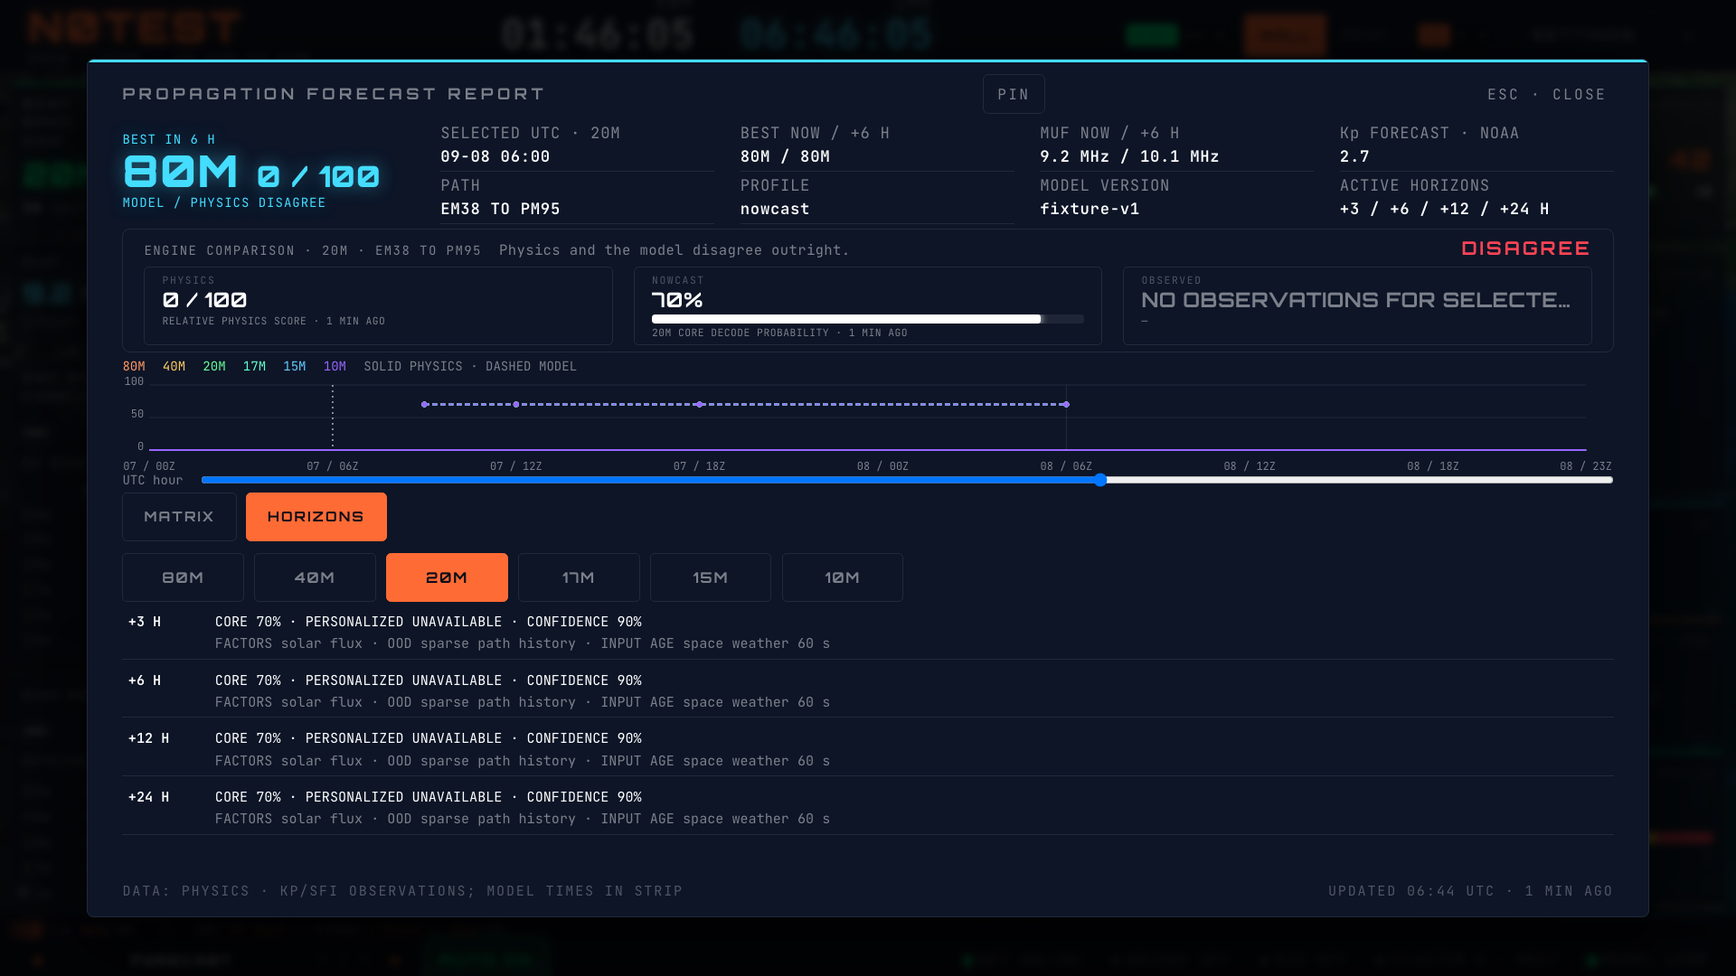
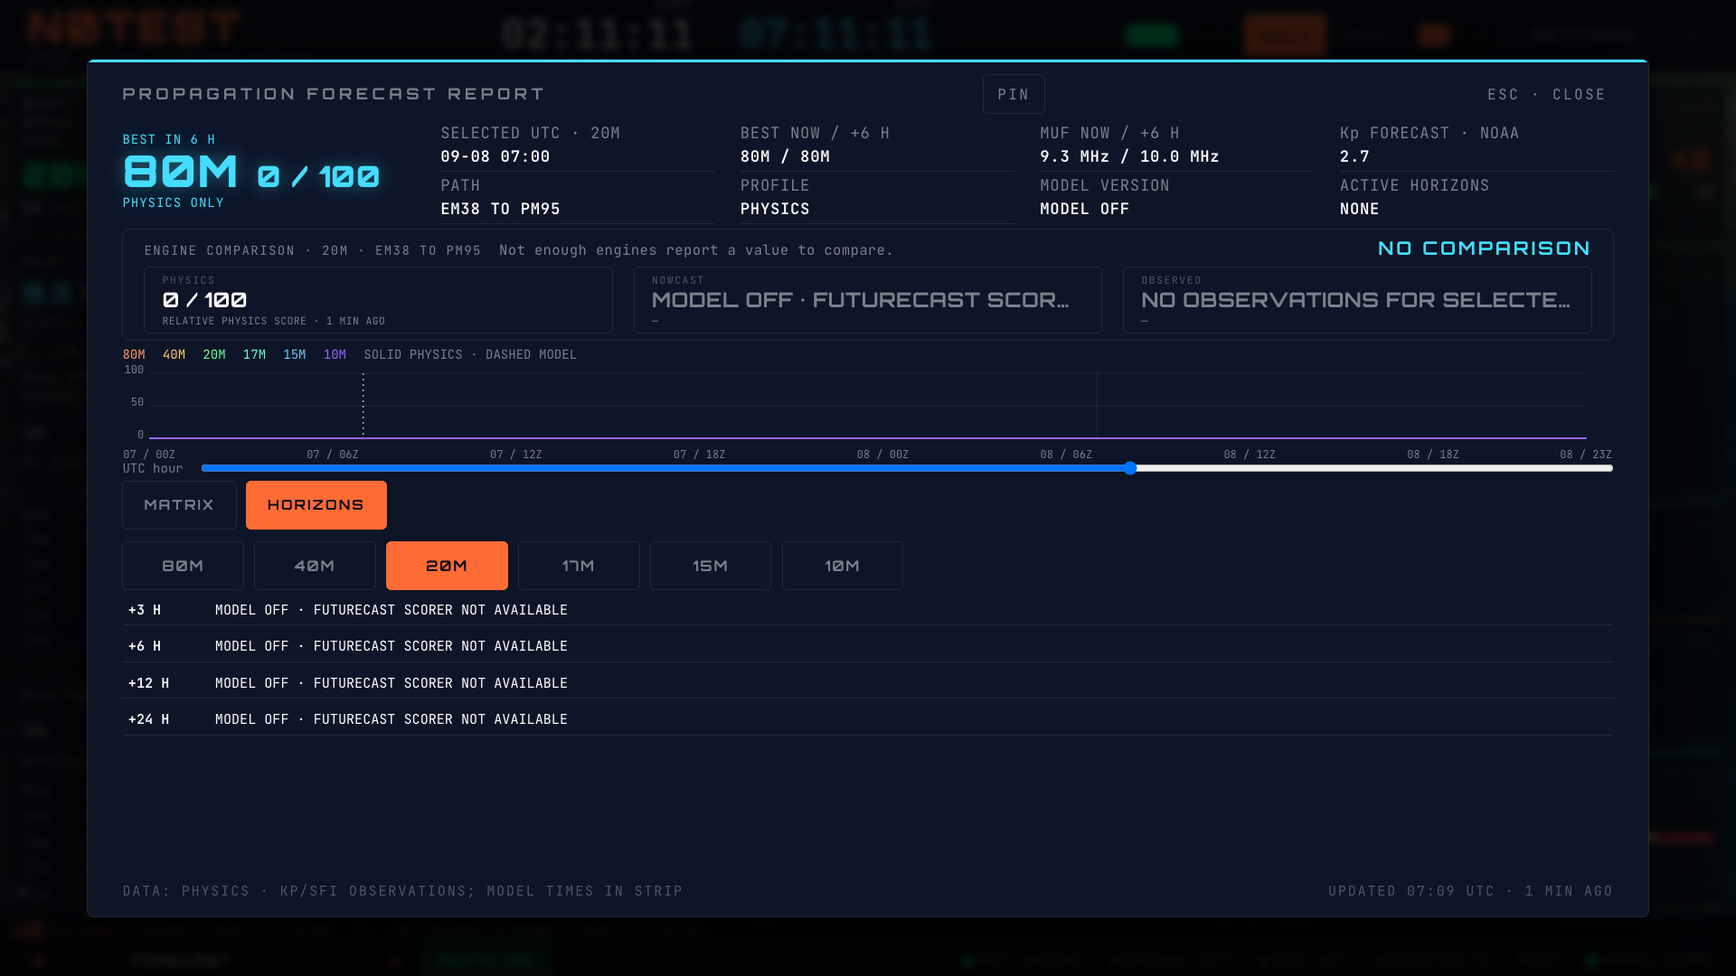
fix(hamclock): require a real FutureCast serving contract

diff --git a/src/components/map/hamclock/wall/reports/useFutureCastReport.ts b/src/components/map/hamclock/wall/reports/useFutureCastReport.ts
@@ -1,13 +1,13 @@
-import { useQueries, useQuery } from "@tanstack/react-query";
-import { nowCastIssueBucket, type NowCastBandInput } from "@/hooks/useNowCastBandPredictions";
+import { useQuery } from "@tanstack/react-query";
+import { nowCastIssueBucket } from "@/hooks/useNowCastBandPredictions";
 import { resolveFutureCastHorizons, resolveNowCastCapabilityAccess } from "@/lib/propagation/capabilityAccess";
 import { propagationModelClient, propagationModelEnabled, propagationModelMode } from "@/lib/propagation/modelClient";
-import { buildFutureCastReportRequests } from "./futureCastRequests";
-import { modelEvidence, FORECAST_HOUR_MS } from "./forecastEvidence";
+import type { ModelEvidence } from "./forecastEvidence";
+
 
 /** The report consumes the established service gates; it cannot activate a
  * horizon or convert a fallback/current response into a future prediction. */
-export function useFutureCastReport(input: NowCastBandInput) {
+export function useFutureCastReport() {
   const now = Date.now();
   const issueTime = nowCastIssueBucket(now);
   const capabilities = useQuery({
@@ -23,35 +23,18 @@ export function useFutureCastReport(input: NowCastBandInput) {
     retry: 1,
   });
   const access = resolveNowCastCapabilityAccess(capabilities.data, propagationModelMode);
-  const active = propagationModelEnabled && !capabilities.isError && access.coreNowCast ? resolveFutureCastHorizons(capabilities.data, propagationModelMode) : [];
+  const advertised = propagationModelEnabled && !capabilities.isError && access.coreNowCast ? resolveFutureCastHorizons(capabilities.data, propagationModelMode) : [];
   const offReason = !propagationModelEnabled ? "MODEL DISABLED"
     : capabilities.isError ? "CAPABILITY SERVICE UNREACHABLE"
     : capabilities.isPending ? "CHECKING MODEL CAPABILITIES"
     : !access.coreNowCast ? "CORE MODEL CAPABILITY UNAVAILABLE"
+    : advertised.length ? "FUTURECAST SCORER NOT AVAILABLE"
     : "HORIZON NOT ACTIVATED BY MODEL CAPABILITIES";
-  const requests = buildFutureCastReportRequests(input, new Date(issueTime), access.coreNowCast ? active : [], access.stationCast);
-  const queries = useQueries({ queries: requests.map(({ hours, request }) => ({
-    queryKey: ["hamclock-futurecast", hours, request] as const,
-    queryFn: ({ signal }: { signal: AbortSignal }) => {
-      if (!propagationModelClient) throw new Error("Propagation model is disabled");
-      return propagationModelClient.path(request, signal);
-    },
-    enabled: propagationModelEnabled && active.includes(hours as 3 | 6 | 12 | 24),
-    staleTime: 60_000,
-    retry: 1,
-  })) });
-  const evidence = new Map(requests.map(({ hours, request }, index) => {
-    const query = queries[index];
-    const result = modelEvidence(query.data, {
-      band: request.band, targetGrid: input.target?.grid ?? null, mode: request.mode,
-      hourIndex: Math.floor((issueTime + hours * FORECAST_HOUR_MS) / FORECAST_HOUR_MS), now,
-    });
-    return [`${request.band}:${hours}`, {
-      ...result,
-      reason: query.isError ? "MODEL REQUEST FAILED" : result.reason,
-      personalized: !!request.station,
-      stale: query.isError || !!result.prediction?.ood_flags.some(flag => /stale/i.test(flag)),
-    }] as const;
-  }));
-  return { active, offReason, issueTime, evidence, pending: queries.some(query => query.isPending) };
+  // The deployed path API selects only NowCast/physics scorers, even for a
+  // future valid_time (ml/service/app.py: ModelRegistry.predict_many/path).
+  // Capability flags alone do not establish a horizon-aware serving contract.
+  // Do not send future timestamps to that endpoint or read its cached scores.
+  const active: Array<3 | 6 | 12 | 24> = [];
+  const evidence = new Map<string, ModelEvidence & { personalized: boolean; stale: boolean }>();
+  return { active, offReason, issueTime, evidence, pending: capabilities.isPending };
 }

diff --git a/src/components/map/hamclock/wall/reports/useFutureCastReport.test.tsx b/src/components/map/hamclock/wall/reports/useFutureCastReport.test.tsx
@@ -10,11 +10,10 @@ vi.mock("@/lib/propagation/modelClient", async original => ({
   ...await original<typeof import("@/lib/propagation/modelClient")>(),
   propagationModelEnabled: true, propagationModelMode: "released", propagationModelClient: mocks,
 }));
-const input = { origin: { grid: "EM38", lat: 38.5, lon: -93 }, target: { grid: "PM95", lat: 35.68, lon: 139.65 }, mode: "FT8", deriveEnvelope: () => null };
 function setup() {
   const client = new QueryClient({ defaultOptions: { queries: { retry: false, gcTime: 0 } } });
   const wrapper = ({ children }: { children: ReactNode }) => createElement(QueryClientProvider, { client }, children);
-  return { client, ...renderHook(() => useFutureCastReport(input), { wrapper }) };
+  return { client, ...renderHook(() => useFutureCastReport(), { wrapper }) };
 }
 const allowed = () => ({ ...fixture, service_execution_enabled: true, model_loaded: true, runtime_activation_valid: true,
   modes: { ...fixture.modes, core_nowcast: { internal_available: true, released_eligible: true }, futurecast: { internal_available: true, released_eligible: true, released_horizons_hours: [3, 6] } } });
@@ -26,12 +25,13 @@ beforeEach(() => {
     core_probability: 0.7, personalized_probability: 0.8, confidence: 0.9, ood_flags: [], top_factors: ["solar_flux"], assumptions: [], data_freshness: {},
   }));
 });
-it("requests only released horizons and removes cached evidence when capability is revoked", async () => {
+it("does not score future horizons through the NowCast-only path endpoint, even when advertised", async () => {
   mocks.capabilities.mockResolvedValue(allowed());
   const hook = setup();
-  await waitFor(() => expect(hook.result.current.evidence.get("20m:3")?.prediction).toBeTruthy());
-  expect(mocks.path).toHaveBeenCalledTimes(12);
-  expect(hook.result.current.active).toEqual([3, 6]);
+  await waitFor(() => expect(hook.result.current.offReason).toBe("FUTURECAST SCORER NOT AVAILABLE"));
+  expect(mocks.path).not.toHaveBeenCalled();
+  expect(hook.result.current.active).toEqual([]);
+  expect(hook.result.current.evidence.size).toBe(0);
   act(() => hook.client.setQueryData(["propagation-v4", "capabilities"], { ...allowed(), runtime_activation_valid: false }));
   await waitFor(() => expect(hook.result.current.active).toEqual([]));
   expect(hook.result.current.evidence.size).toBe(0);

diff --git a/src/components/map/hamclock/wall/reports/PropagationForecastReport.tsx b/src/components/map/hamclock/wall/reports/PropagationForecastReport.tsx
@@ -28,7 +28,7 @@ export function PropagationForecastReport({ open, onClose }: { open: boolean; on
     weather: { ...(data.wall.inputs.kp === null ? {} : { kp: data.wall.inputs.kp }), ...(data.wall.inputs.sfi === null ? {} : { f107: data.wall.inputs.sfi }) },
     weatherUpdatedAt: data.wall.updatedAt ?? undefined, deriveEnvelope: station.deriveEnvelope,
   }), [data.location, data.target, data.wall.mode, data.wall.inputs.kp, data.wall.inputs.sfi, data.wall.updatedAt, station.location, station.deriveEnvelope]);
-  const future = useFutureCastReport(input);
+  const future = useFutureCastReport();
   const hour = Math.max(data.dayStart, Math.min(data.dayStart + 47, selected ?? data.wall.hourIndex));
   const score = data.matrix.get(`${band}:${hour}`);
   const ranked = (at: number) => WALL_FORECAST_BANDS.map(value => ({ band: value, score: data.matrix.get(`${value}:${at}`) })).filter(value => value.score !== undefined).sort((a, b) => b.score! - a.score!)[0];

diff --git a/docs/designs/hamclock-propagation-forecast-report.md b/docs/designs/hamclock-propagation-forecast-report.md
@@ -1,23 +1,27 @@
 # HamClock Propagation Forecast report — B18 / HW-59
 
-The Forecast Matrix tile opens a dedicated, pinnable report. Its summary shows the highest physics-scoring band six hours ahead, its relative score, and model/physics agreement only when matching model evidence exists. The chart covers the current and next UTC calendar day, with six physics band scores, a now marker and model points only at permitted FutureCast horizons. This is two UTC days, not a promise of 48 future hours from the current moment.
+The Forecast Matrix tile opens a dedicated, pinnable report. Its summary shows the highest physics-scoring band six hours ahead and its relative score. The chart covers the current and next UTC calendar day with six physics band scores and a now marker. This is two UTC days, not a promise of 48 future hours from the current moment.
 
-MATRIX provides a day selector and 24 hourly columns per day. Both days retain all six bands (288 values in the screen-reader table); the visible cells remain at least 44 × 44 pixels. Selecting a cell or moving the chart's keyboard/pointer control updates the band/hour readout. The dialog fits within 90vw × 88vh without a scrolling region.
+MATRIX provides a day selector and 24 hourly columns per day. Both days retain all six bands (288 values in the screen-reader table); visible cells remain at least 44 × 44 pixels. Cell selection and the chart's keyboard/pointer control update the selected-hour readout. The dialog fits within 90vw × 88vh without a scrolling region.
 
-HORIZONS always includes +3, +6, +12 and +24 hours. Available responses show core probability, personalized probability only when a station envelope was actually sent, confidence, word-expanded factors and OOD flags, and supplied input ages. Missing or disabled horizons retain MODEL OFF and a reason. The chart and selected-hour model readout use the same core/personalized choice. Scoped spot counts remain evidence and are excluded from path-agreement classification.
+HORIZONS always includes +3, +6, +12 and +24 hours, with MODEL OFF and the applicable reason. The presentation supports probabilities/confidence/metadata when a real horizon scorer becomes available, but the current service cannot provide those values. Scoped spot counts remain evidence and are excluded from path-agreement classification.
 
-## Data boundaries and remaining work
+## Serving dependency — HW-59 remains partial
 
-- Existing model capability and runtime gates decide which horizons may be requested. This report cannot activate them. Capability revocation also hides cached responses.
-- Requests use the established station envelope and feature builder, recalculated at each valid time while retaining the issue time and observation freshness. Reliability mathematics and modeling internals are unchanged.
-- Model responses must match band, target, mode and valid hour, pass probability/metadata validation, and have a recent issue time. A stale response or refresh failure retains a warning. A current response is never extended across future hours.
-- Physics uses the existing two-day computation and current Kp/SFI observations. The separate Kp FORECAST fact reuses the full NOAA K-index resource, accepts only predicted points covering the selected three-hour interval, and marks stale values. It does not substitute observations for missing forecasts or alter the physics inputs.
-- Historical model/observed series and hop count remain the separate HW-58 gaps documented in the Reliability report. No synthetic values replace missing source data.
+Review identified that `ml/service/app.py` selects only `nowcast` or `physics` in `ModelRegistry.predict_many`; the path endpoint calls that scorer without a horizon-specific model. A future `valid_time` does not make the resulting score FutureCast. The service also advertises `futurecast.internal_available` as false.
 
-## Validation so far
+The report therefore sends no future-time path requests, reads no cached future-time NowCast results, and reports FUTURECAST SCORER NOT AVAILABLE even if activation metadata advertises horizons. A horizon-aware endpoint/scorer and a response contract identifying its model/horizon are required before this adapter can supply future evidence. That serving work belongs to the model owner; no modeling or activation code changed here. The removed request builder must not be restored against the generic path API.
 
-Eight focused tests cover future-time feature construction, capability revocation, disabled horizons, both matrix days, and core/personalized chart/readout consistency including stale metadata, plus NOAA bucket boundaries and observation/forecast separation. The required wall suite passed all 328 tests in 32 files. TypeScript compilation passes. The browser matrix passed 24 MODEL OFF cases and 24 populated-model cases across QTH/target, three themes, 1080p/4K and both tabs. It checks all 288 cell labels across both days, 44px minimum hit targets, 90vw × 88vh limits, no overflow, selection and focus return. No page errors occurred. Browser data was synthetic in an isolated local context; this is not evidence that live FutureCast horizons are released.
+Current-hour NowCast remains available through the existing validated Reliability adapter. The best-in-six-hours summary stays PHYSICS ONLY while future evidence is unavailable. Historical model/observed series and hop count remain the separate HW-58 gaps.
 
-PR #502 is stacked on Reliability PR #494. Full pre-push verification passed: 3,219 app tests in 368 files, Python/archive checks, bridge/daemon checks, lint, production build and all bundle budgets.
+## Kp and physics
+
+Physics uses the existing two-day computation and current Kp/SFI observations. The separate Kp FORECAST fact reuses the full NOAA K-index resource, accepts only predicted points covering the selected three-hour interval, and marks stale values. It does not substitute observations for missing forecasts or alter physics inputs.
+
+## Validation
+
+The new scorer-boundary regression failed against the original implementation and passes after removal of future-time path requests. Six focused tests cover that boundary, capability revocation, core/personalized presentation consistency, stale metadata, matrix day selection, and Kp bucket boundaries. Earlier full verification passed 3,219 app tests; final review-fix verification is recorded in PR #502.
+
+The review browser matrix passed 24 cases with advertised horizons but no supported scorer: all horizon rows show the reason, zero future-time path requests are sent, and no model points appear on the future chart. It also checks QTH/target, three themes, 1080p/4K, both tabs, all 288 cell labels, 44px minimum hit targets, report size, overflow, selection and focus return. No page errors occurred. Fixtures were isolated and synthetic. Earlier populated-row fixtures proved presentation only and did not establish an available FutureCast service.
 
 ![Forecast horizons at 1080p](../images/hamclock-b18/forecast-horizons-1080p.png)

diff --git a/docs/designs/hamclock-wall-spec.md b/docs/designs/hamclock-wall-spec.md
@@ -485,7 +485,7 @@ Rows HW-40 to HW-49 in the feature register. All are Not started.
 | HW-56 | `EngineComparisonStrip`: physics / nowcast / observed on every model-backed report          | Delivered   | PR #246                               | section 26.1; `EngineComparisonStrip.tsx`, pure `compareEngines()` in `src/lib/hamclock/engineComparison.ts`; on the MUF and Best band reports                                                                                                                                                                           |
 | HW-57 | MUF report: ionosphere facts, hop table, usable-window chart                                | Delivered   | PR #246                               | section 26.2; `MufReport.tsx`, `useMUFHourlySeries`; PATH / HOPS tabs, shaded FOT–LUF usable window, hop rows flash the map                                                                                                                                                                                              |
 | HW-58 | Reliability report: SNR, confidence, station inputs, three-engine chart                     | Partial |                                       | section 26.3; dedicated report implemented in B18 Reliability slice; source history and hop count gaps documented in [evidence](hamclock-reliability-report.md)                                                                                                                                                                                                                                                                                                             |
-| HW-59 | Propagation forecast report: 48 h band chart, matrix tab, FutureCast horizons tab           | Delivered |                                       | PR #502, effective on merge; [evidence](hamclock-propagation-forecast-report.md)                                                                                                                                                                                                                                                                                                             |
+| HW-59 | Propagation forecast report: 48 h band chart, matrix tab, FutureCast horizons tab           | Partial |                                       | PR #502; future scorer/response contract unavailable; [evidence](hamclock-propagation-forecast-report.md)                                                                                                                                                                                                                                                                                                             |
 | HW-60 | Solar report: SFI, SSN, flux forecast, cycle 25 chart                                       | Delivered   | PR #247                               | section 26.5; `SolarReport.tsx` rewritten with NOW / CYCLE tabs, flux trend with the 27-day outlook tail                                                                                                                                                                                                                 |
 | HW-61 | X-ray and flares report: flux curve with B/C/M/X, latest flare, D-RAP, probabilities        | Delivered   | PR #247                               | section 26.6; `XrayReport.tsx`, FLUX (log axis, B/C/M/X rules, last flare marker) / ABSORPTION (D-RAP) / PROBABILITIES tabs                                                                                                                                                                                              |
 | HW-62 | Solar wind and geomagnetic report: Bz / speed / density, Kp, Dst, aurora, CMEs, protons     | Delivered   | PR #247                               | section 26.7; `SolarWindReport.tsx`, WIND / GEOMAGNETIC / EVENTS tabs, Bz zero rule, aurora map link                                                                                                                                                                                                                     |
@@ -501,7 +501,7 @@ Rows HW-40 to HW-49 in the feature register. All are Not started.
 | HW-72 | DX cluster modal adopts the report chrome, pin and footer                                   | Not started |                                       | section 26.16; chrome only, no new data                                                                                                                                                                                                                                                                                  |
 | HW-73 | Model track: weather-derived features in NowCast                                            | Not started |                                       | section 26.17; backlog, after every panel is live                                                                                                                                                                                                                                                                        |
 
-Totals: 46 delivered, 3 partial, 24 not started.
+Totals: 45 delivered, 4 partial, 24 not started.
 
 ## 22. Open decisions
 

diff --git a/docs/FEATURE-TRACKER.md b/docs/FEATURE-TRACKER.md
@@ -21,10 +21,10 @@
 | v0.14.0 Polish & Infra (2026-02-10)     | 12        | 1       | 0           | 0        | 13      |
 | v0.15.0 Spot Watch System (2026-02-10)  | 22        | 2       | 0           | 0        | 24      |
 | v0.16.0 NCS Workflow + QSO (2026-02-11) | 38        | 0       | 0           | 0        | 38      |
-| HamClock Wall (2026-09-05)              | 46        | 3       | 24          | 0        | 73      |
-| **Grand Total**                         | **307**   | **10**  | **35**      | **1**    | **353** |
+| HamClock Wall (2026-09-05)              | 45        | 4       | 24          | 0        | 73      |
+| **Grand Total**                         | **306**   | **11**  | **35**      | **1**    | **353** |
 
-**Delivery rate: 87.0% delivered, 2.8% partial, 9.9% not started, 0.3% deferred**
+**Delivery rate: 86.7% delivered, 3.1% partial, 9.9% not started, 0.3% deferred**
 
 ---
 
@@ -619,7 +619,7 @@ _Two major feature sets: NCS Dashboard phase-based workflow redesign and full QS
 
 _Source: `docs/designs/hamclock-wall-spec.md` (feature register HW-01 to HW-73). Wall density shipped as the HamClock default across PRs #167, #169, #170 and #171. Open work is packaged as batch issues #197 to #212 under tracker #213 on the ProPulse Delivery project board; batches B17 to B25 (the dedicated reports of spec section 26) have briefs but no issues yet._
 
-### Delivered (46)
+### Delivered (45)
 
 | ID    | Feature                                                       | Notes                                                                                                                                                                          |
 | ----- | ------------------------------------------------------------- | ------------------------------------------------------------------------------------------------------------------------------------------------------------------------------ |
@@ -669,9 +669,8 @@ _Source: `docs/designs/hamclock-wall-spec.md` (feature register HW-01 to HW-73).
 | HW-65 | EME computation module `src/lib/utils/eme.ts`                 | PR #253, EME module: eme.ts path loss, degradation, Doppler, sky noise, mutual window                                                                                          |
 | HW-66 | Moon and EME report                                           | PR #253, Moon report: MOON/EME tabs, band selector, sub-lunar point                                                                                                            |
 
-| HW-59 | Propagation forecast report | PR #502, effective on merge: two UTC days, gated horizons, best +6h summary and NOAA Kp forecast. [Evidence](designs/hamclock-propagation-forecast-report.md) |
 
-### Partial (3)
+### Partial (4)
 
 | ID    | Feature                 | Gap                                   |
 | ----- | ----------------------- | ------------------------------------- |
@@ -679,6 +678,8 @@ _Source: `docs/designs/hamclock-wall-spec.md` (feature register HW-01 to HW-73).
 | HW-19 | SDR decodes tile        | Idle until a shared receiver exists   |
 | HW-58 | Reliability report | PR #494: dedicated report and current evidence; historical model/observed series and hop count are not supplied. [Evidence](designs/hamclock-reliability-report.md) |
 
+
+| HW-59 | Propagation forecast report | PR #502: chart/matrix/summary/Kp and explicit unavailable horizons; horizon-aware scorer/response contract pending. [Evidence](designs/hamclock-propagation-forecast-report.md) |
 
 ### Not Started (24)
 
